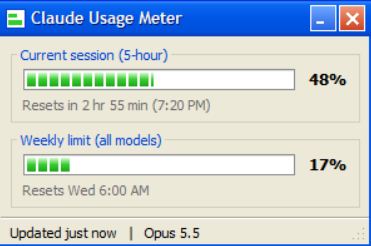
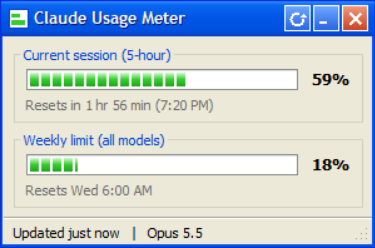
Add a refresh button that fetches fresh usage via headless Claude Code
The button runs a minimal claude -p request on Haiku (no tools, MCP,
settings or session file) and reads the rate_limit_event from its
stream-json output, so usage from elsewhere shows up without sending a
message in a session. statusline.save() is now shared by both paths.

diff --git a/statusline.py b/statusline.py
@@ -14,14 +14,6 @@ import time
 HERE = os.path.dirname(os.path.abspath(__file__))
 OUT = os.path.join(HERE, "latest.json")
 
-try:
-    data = json.loads(sys.stdin.buffer.read().decode("utf-8", "replace") or "{}")
-except ValueError:
-    data = {}
-
-model = (data.get("model") or {}).get("display_name") or "Claude"
-limits = data.get("rate_limits") or {}
-
 
 def is_stale(new, old):
     """True if `new` is an older reading than `old`. Several Claude Code sessions
@@ -37,32 +29,50 @@ def is_stale(new, old):
         return False
 
 
-if limits:
+def save(limits, model=None, fresh=False):
+    """Merge `limits` into latest.json and return what was kept. `fresh` marks a
+    reading just fetched from the API, which always updates the timestamp."""
     try:
         with open(OUT, encoding="utf-8") as f:
-            previous = json.load(f).get("rate_limits") or {}
+            previous = json.load(f)
+        previous_limits = previous.get("rate_limits") or {}
     except (OSError, ValueError, AttributeError):
-        previous = {}
-    stale = [k for k in limits if k in previous and is_stale(limits[k], previous[k])]
+        previous, previous_limits = {}, {}
+    limits = dict(limits)
+    stale = [k for k in limits if k in previous_limits and is_stale(limits[k], previous_limits[k])]
     for key in stale:
-        limits[key] = previous[key]
+        limits[key] = previous_limits[key]
+    if limits and (fresh or len(stale) < len(limits)):
+        snapshot = {"captured_at": time.time(),
+                    "model": model or previous.get("model") or "Claude",
+                    "rate_limits": limits}
+        try:
+            fd, tmp = tempfile.mkstemp(dir=HERE, suffix=".tmp")
+            with os.fdopen(fd, "w") as f:
+                json.dump(snapshot, f)
+            os.replace(tmp, OUT)
+        except OSError:
+            pass
+    return limits
 
-if limits and len(stale) < len(limits):
-    snapshot = {"captured_at": time.time(), "model": model, "rate_limits": limits}
+
+if __name__ == "__main__":
     try:
-        fd, tmp = tempfile.mkstemp(dir=HERE, suffix=".tmp")
-        with os.fdopen(fd, "w") as f:
-            json.dump(snapshot, f)
-        os.replace(tmp, OUT)
-    except OSError:
-        pass
+        data = json.loads(sys.stdin.buffer.read().decode("utf-8", "replace") or "{}")
+    except ValueError:
+        data = {}
 
-parts = [model]
-ctx = (data.get("context_window") or {}).get("used_percentage")
-if ctx is not None:
-    parts.append(f"ctx {ctx:.0f}%")
-for key, label in (("five_hour", "5h"), ("seven_day", "7d")):
-    pct = (limits.get(key) or {}).get("used_percentage")
-    if pct is not None:
-        parts.append(f"{label} {pct:.0f}%")
-print(" | ".join(parts))
+    model = (data.get("model") or {}).get("display_name") or "Claude"
+    limits = data.get("rate_limits") or {}
+    if limits:
+        limits = save(limits, model)
+
+    parts = [model]
+    ctx = (data.get("context_window") or {}).get("used_percentage")
+    if ctx is not None:
+        parts.append(f"ctx {ctx:.0f}%")
+    for key, label in (("five_hour", "5h"), ("seven_day", "7d")):
+        pct = (limits.get(key) or {}).get("used_percentage")
+        if pct is not None:
+            parts.append(f"{label} {pct:.0f}%")
+    print(" | ".join(parts))

diff --git a/README.md b/README.md
@@ -7,13 +7,20 @@ A tiny Windows XP–style desktop widget that shows your Claude Code plan usage 
 - **Session and weekly bars** with a reset countdown, turning yellow at 75% and red at 90%
 - **Live taskbar button**: the icon is a mini progress bar that fills with your session usage, and Windows' own taskbar progress indicator tracks it too (hover for both numbers)
 - **Sits bottom-right**, always on top (toggleable), draggable, remembers where you put it
-- No dependencies beyond Python and Pillow; no API keys, no network calls
+- **Refresh button** in the title bar fetches your current usage on demand (see below)
+- No dependencies beyond Python and Pillow; no API keys
 
 ## How it works
 
 Claude Code sends session JSON — including `rate_limits.five_hour` and `rate_limits.seven_day` — to your [status line](https://code.claude.com/docs/en/statusline) script on every refresh. `statusline.py` saves those numbers to `latest.json` and prints a short status line; `widget.pyw` watches that file and draws the meter.
 
 Rate-limit data is only available to Claude Pro and Max subscribers, and the meter updates while Claude Code is in use. When you step away it keeps the last reading and shows how old it is; a window drops to 0% once its reset time passes.
+
+Every open Claude Code session writes to the same file, and an idle one still carries the numbers from its last request. `statusline.py` ignores a reading that's lower than the saved one in the same window (usage only goes up until a reset), so a stale session can't roll the meter back.
+
+### Refresh button
+
+Claude Code only learns your usage when it makes a request, so usage from elsewhere (claude.ai, the desktop app) doesn't show up until a session sends something. The ↻ button runs a tiny headless request, `claude -p` on Haiku with no tools, MCP servers, settings or saved session, and reads the fresh numbers from its output. Each click takes a couple of seconds and uses a few hundred Haiku tokens of your plan.
 
 ## Requirements
 
@@ -48,7 +55,8 @@ Rate-limit data is only available to Claude Pro and Max subscribers, and the met
 
 ## Usage
 
-- **Drag** the title bar to move it; **right-click** anywhere for *Always on top*, *Move to bottom-right*, *Refresh* and *Exit*.
+- **Drag** the title bar to move it; **right-click** anywhere for *Always on top*, *Move to bottom-right*, *Refresh now* and *Exit*.
+- **Click ↻** in the title bar to fetch fresh usage. The status bar shows *Checking usage...* and then the result, or the reason if it failed.
 - Launching it again brings the running window forward instead of opening a second one.
 - **Don't pin it to the taskbar.** Windows shows a pinned item's static shortcut icon, which replaces the live progress icon (and pins bare Python). Use start-at-login instead so the button is always there.
 
@@ -57,7 +65,7 @@ Rate-limit data is only available to Claude Pro and Max subscribers, and the met
 | File | Purpose |
 | - | - |
 | `widget.pyw` | The widget window |
-| `statusline.py` | Claude Code status line script; writes `latest.json` |
+| `statusline.py` | Claude Code status line script; writes `latest.json` (the widget reuses it to save refreshes) |
 | `icon.ico` / `make_icon.py` | App icon and the script that draws it |
 
 ## License
